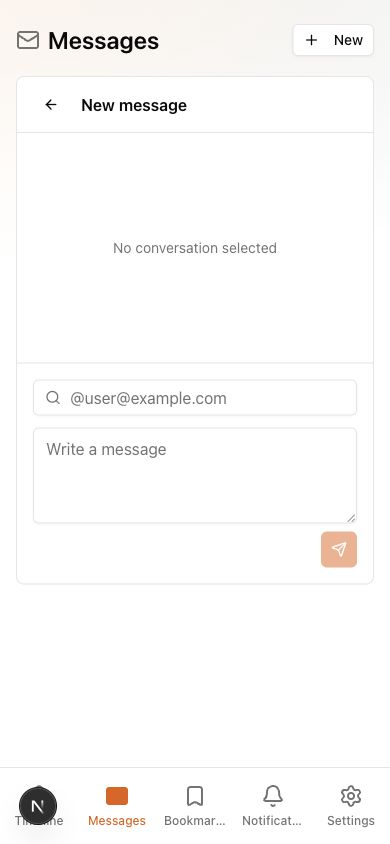
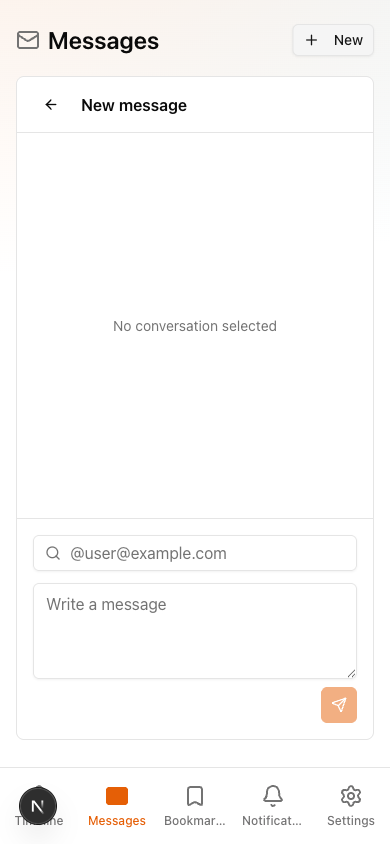
fix: address messages layout review

diff --git a/app/(timeline)/messages/MessagesPage.test.tsx b/app/(timeline)/messages/MessagesPage.test.tsx
@@ -650,6 +650,17 @@ describe('MessagesPage', () => {
         screen.getByLabelText('Recipient search results')
       ).toBeInTheDocument()
       expect(screen.getByText('Ada')).toBeInTheDocument()
+
+      fireEvent.change(
+        screen.getByRole('textbox', { name: 'Search recipients' }),
+        { target: { value: 'bob' } }
+      )
+
+      await act(async () => {
+        await Promise.resolve()
+      })
+
+      expect(screen.queryByText('Ada')).not.toBeInTheDocument()
     } finally {
       jest.useRealTimers()
     }
@@ -751,13 +762,15 @@ describe('MessagesPage', () => {
   it('uses a wide desktop layout with aligned composer controls', () => {
     const { container } = renderMessagesPage([], null)
 
-    expect(container.firstElementChild).toHaveClass('max-w-7xl')
-    expect(container.firstElementChild?.className).toContain(
-      'md:w-[calc(100vw-72px-3rem)]'
+    expect(container.firstElementChild).toHaveAttribute(
+      'data-layout-width',
+      'wide'
     )
+    expect(container.firstElementChild).toHaveClass('flex-1')
 
     const directMessages = screen.getByLabelText('Direct messages')
-    expect(directMessages.className).toContain('md:h-[calc(100svh-8.5rem)]')
+    expect(directMessages).toHaveClass('flex-1')
+    expect(directMessages.className).not.toContain('100svh')
     expect(directMessages.className).toContain(
       '2xl:grid-cols-[380px_minmax(0,1fr)]'
     )

diff --git a/app/(timeline)/messages/MessagesPage.tsx b/app/(timeline)/messages/MessagesPage.tsx
@@ -469,12 +469,11 @@ export const MessagesPage: FC<MessagesPageProps> = ({
 
   useEffect(() => {
     const query = recipientQuery.trim()
-    if (!query) {
-      latestRecipientSearchRequestIdRef.current += 1
-      setRecipientSearchResults([])
-      setResolvingRecipient(false)
-      return
-    }
+    latestRecipientSearchRequestIdRef.current += 1
+    setRecipientSearchResults([])
+    setResolvingRecipient(false)
+
+    if (!query) return
 
     const timeout = window.setTimeout(() => {
       void runRecipientSearch(query)
@@ -597,7 +596,10 @@ export const MessagesPage: FC<MessagesPageProps> = ({
   )
 
   return (
-    <div className="relative left-1/2 w-[calc(100vw-2rem)] max-w-7xl -translate-x-1/2 space-y-5 md:w-[calc(100vw-72px-3rem)] md:space-y-6 xl:w-[calc(100vw-280px-3rem)]">
+    <div
+      data-layout-width="wide"
+      className="flex min-h-0 flex-1 flex-col gap-5 md:gap-6"
+    >
       <div className="flex items-center justify-between gap-3">
         <div className="flex items-center gap-2">
           <Mail className="size-6 text-muted-foreground md:size-7" />
@@ -611,7 +613,7 @@ export const MessagesPage: FC<MessagesPageProps> = ({
 
       <section
         aria-label="Direct messages"
-        className="grid min-w-0 overflow-hidden rounded-lg border bg-background md:h-[calc(100svh-8.5rem)] md:min-h-[34rem] md:grid-cols-[minmax(260px,34%)_minmax(0,1fr)] lg:grid-cols-[minmax(320px,30%)_minmax(0,1fr)] 2xl:grid-cols-[380px_minmax(0,1fr)]"
+        className="grid min-w-0 flex-1 overflow-hidden rounded-lg border bg-background md:min-h-0 md:grid-cols-[minmax(260px,34%)_minmax(0,1fr)] lg:grid-cols-[minmax(320px,30%)_minmax(0,1fr)] 2xl:grid-cols-[380px_minmax(0,1fr)]"
       >
         <aside
           aria-label="Conversation list"

diff --git a/app/(timeline)/layout.tsx b/app/(timeline)/layout.tsx
@@ -107,11 +107,13 @@ const Layout: FC<LayoutProps> = async ({ children }) => {
       )}
       <main
         className={cn(
-          'pb-6',
+          'flex min-h-screen flex-col pb-6',
           showNavigation && 'pb-20 md:pl-[72px] md:pb-0 xl:pl-[280px]'
         )}
       >
-        <div className="mx-auto max-w-2xl px-4 py-6">{children}</div>
+        <div className="timeline-content mx-auto flex w-full max-w-2xl flex-1 flex-col px-4 py-6">
+          {children}
+        </div>
       </main>
       <Modal />
     </div>

diff --git a/app/globals.css b/app/globals.css
@@ -177,6 +177,10 @@
   .safe-area-pb {
     padding-bottom: env(safe-area-inset-bottom, 0);
   }
+
+  .timeline-content:has([data-layout-width='wide']) {
+    max-width: none;
+  }
 }
 
 /* Markdown content styles for PostBox preview and Status display */